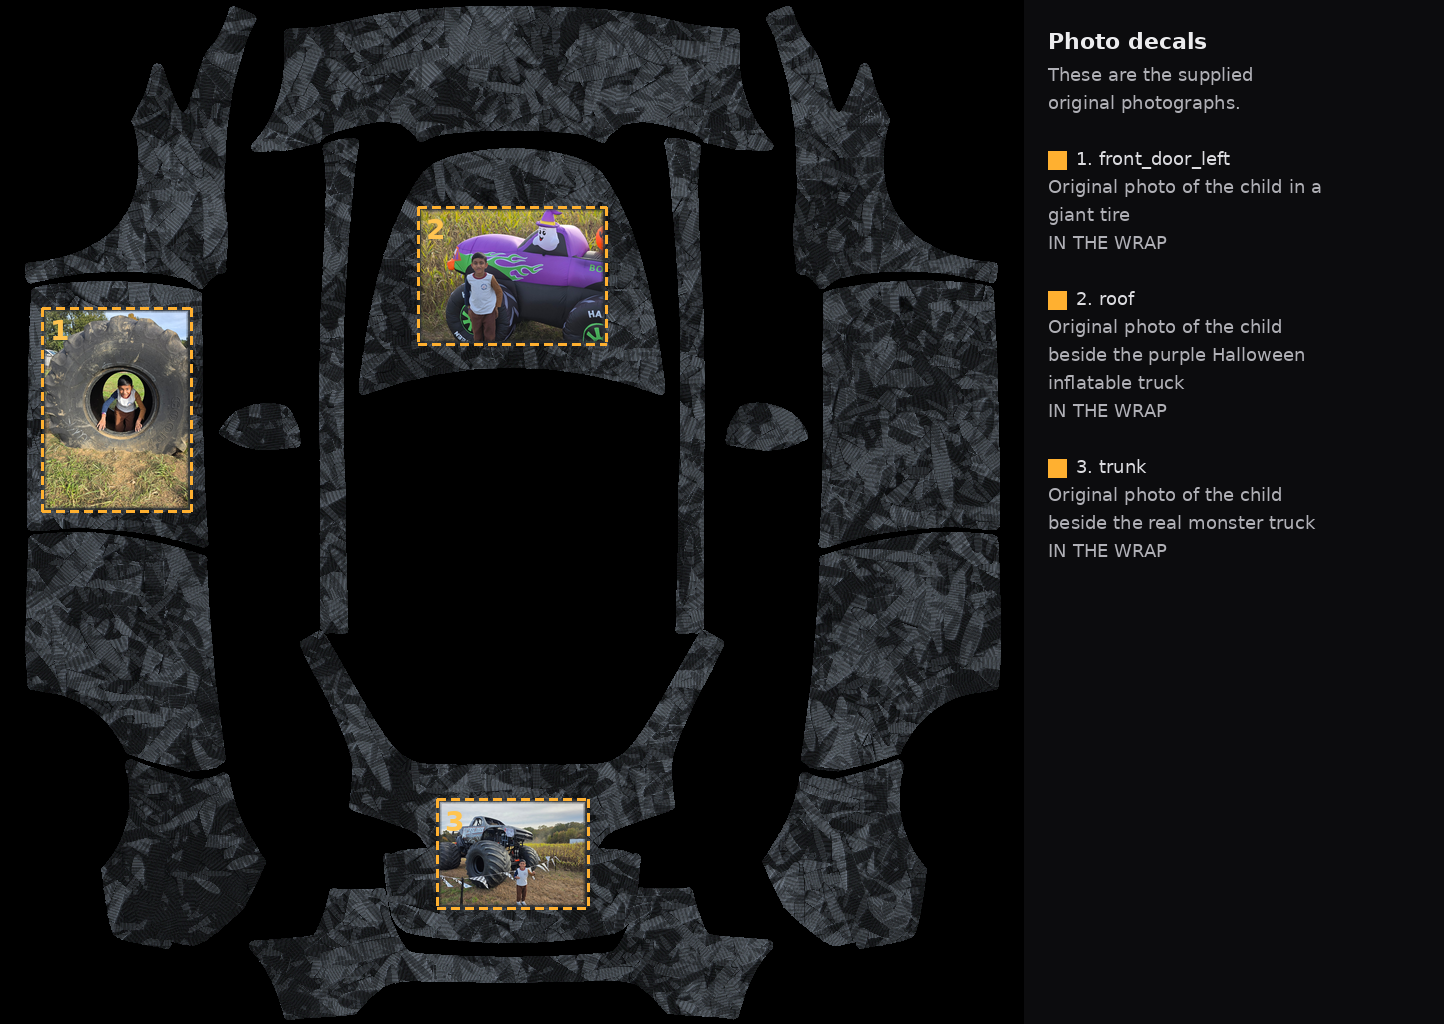
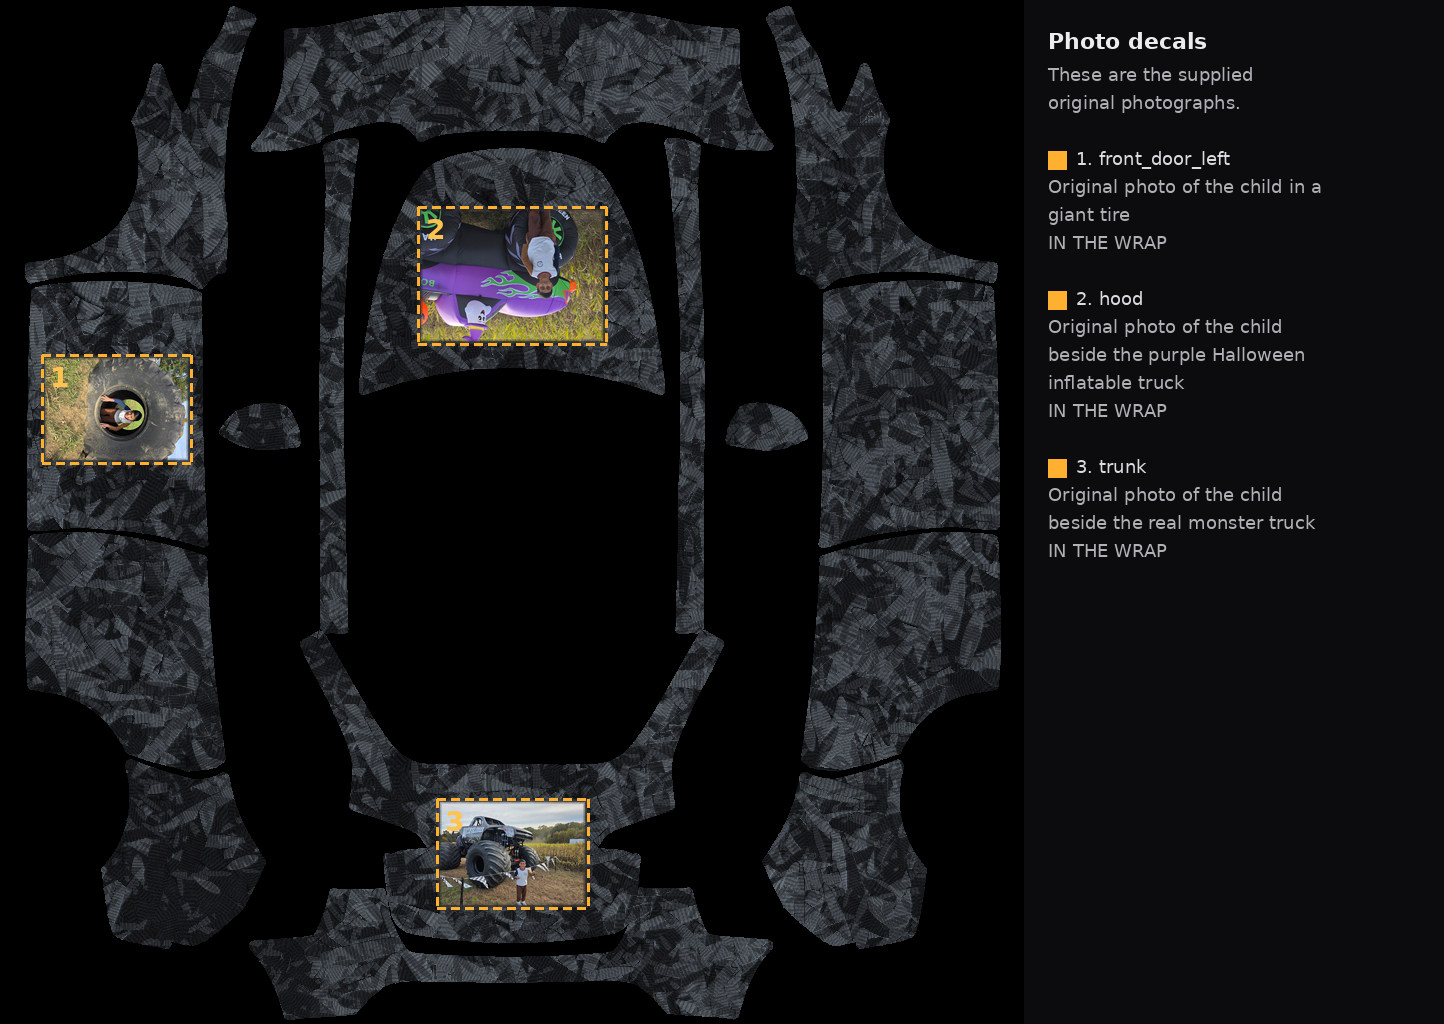
Turn the photo decals to match the Paint Shop UV
The left door needs a quarter turn so the head points toward the window, and the hood needs a half turn so the head points toward the windshield. The trunk photo stays upright.

Changed region(s): [[0.0312, 0.2812, 0.1558, 0.5], [0.2805, 0.1875, 0.4363, 0.3438], [0.7791, 0.2812, 0.8102, 0.3125]]

diff --git a/designs/modely-2024-forged-carbon/photos.py b/designs/modely-2024-forged-carbon/photos.py
@@ -30,18 +30,24 @@ PHOTO_SPECS = (
         "filename_stem": "child_giant_tire",
         "description": "Original photo of the child in a giant tire",
         "panel": "front_door_left",
-        "aspect_h_over_w": 1.33,
+        # After the quarter-turn, the portrait becomes a wide decal whose long side
+        # runs from the window toward the sill.
+        "aspect_h_over_w": 0.75,
         # Portrait photo, child centered in the tire.
         "focal": (0.50, 0.47),
+        # Side panels fold outward. Clockwise puts the head toward the template center,
+        # which is up on the door. Measured against the official TESLA door lettering.
+        "rotation_cw": 90,
     },
     {
         "id": "child_halloween_truck",
         "filename_stem": "child_halloween_truck",
         "description": "Original photo of the child beside the purple Halloween inflatable truck",
-        "panel": "roof",
+        "panel": "hood",
         "aspect_h_over_w": 0.75,
-        # Landscape photo. The roof island keeps the child and the inflatable in frame.
         "focal": (0.46, 0.58),
+        # The hood's image-up is the front bumper. Half a turn puts the head toward the windshield.
+        "rotation_cw": 180,
     },
     {
         "id": "child_monster_truck",
@@ -51,6 +57,8 @@ PHOTO_SPECS = (
         "aspect_h_over_w": 0.75,
         # Child stands low in the frame, so the crop favors the lower half.
         "focal": (0.58, 0.66),
+        # Image-up on the liftgate is the rear window, so the photo stays upright.
+        "rotation_cw": 0,
     },
 )
 
@@ -164,9 +172,36 @@ def build_slots(panel_masks: dict[str, np.ndarray], solid: np.ndarray) -> list[d
                 "aspect_h_over_w": spec["aspect_h_over_w"],
                 "rect": [int(x0), int(y0), int(x1), int(y1)],
                 "focal": [float(v) for v in spec["focal"]],
+                "rotation_cw": int(spec["rotation_cw"]),
             }
         )
     return slots
+
+
+def rotate_clockwise(image: Image.Image, degrees: int) -> Image.Image:
+    degrees = degrees % 360
+    if degrees == 0:
+        return image
+    if degrees == 90:
+        return image.transpose(Image.Transpose.ROTATE_270)
+    if degrees == 180:
+        return image.transpose(Image.Transpose.ROTATE_180)
+    if degrees == 270:
+        return image.transpose(Image.Transpose.ROTATE_90)
+    raise ValueError(f"rotation must be a quarter turn, got {degrees}")
+
+
+def rotate_focal(focal: tuple[float, float], degrees: int) -> tuple[float, float]:
+    """Map a focal point into the image produced by rotate_clockwise."""
+    x, y = float(focal[0]), float(focal[1])
+    degrees = degrees % 360
+    if degrees == 90:
+        return (1.0 - y, x)
+    if degrees == 180:
+        return (1.0 - x, 1.0 - y)
+    if degrees == 270:
+        return (y, 1.0 - x)
+    return (x, y)
 
 
 def cover_crop(image: Image.Image, width: int, height: int, focal: tuple[float, float] = (0.5, 0.5)) -> np.ndarray:
@@ -204,8 +239,10 @@ def composite_photos(
         x0, y0, x1, y1 = slot["rect"]
         width = x1 - x0
         height = y1 - y0
-        focal = slot.get("focal", (0.5, 0.5))
-        cropped = cover_crop(photo, width, height, (float(focal[0]), float(focal[1]))).astype(np.float32)
+        rotation = int(slot.get("rotation_cw", 0))
+        oriented = rotate_clockwise(photo, rotation)
+        focal = rotate_focal(tuple(slot.get("focal", (0.5, 0.5))), rotation)
+        cropped = cover_crop(oriented, width, height, focal).astype(np.float32)
         alpha = _slot_alpha(height, width)[..., None]
         base = painted[y0:y1, x0:x1].astype(np.float32)
         blended = cropped * alpha + base * (1.0 - alpha)

diff --git a/designs/modely-2024-forged-carbon/test_wrap.py b/designs/modely-2024-forged-carbon/test_wrap.py
@@ -181,8 +181,29 @@ class WrapTests(unittest.TestCase):
                 self.assertTrue(bool(changed[y0 + 12 : y1 - 12, x0 + 12 : x1 - 12].all()))
                 self.assertTrue(bool(self.panels[slot["panel"]][y0:y1, x0:x1].all()))
             self.assertFalse(bool(changed[~slot_union].any()))
-            # Hood stays carbon. The monster-truck slot is on the trunk, not the hood.
-            self.assertTrue(np.array_equal(painted[self.panels["hood"]], carbon[self.panels["hood"]]))
+            # The front bumper has no decal. The monster-truck slot is on the trunk.
+            self.assertTrue(
+                np.array_equal(painted[self.panels["front_bumper"]], carbon[self.panels["front_bumper"]])
+            )
+
+    def test_decals_follow_panel_orientation(self):
+        rgba, status, _coverage = build_wrap(enable_photos=True)
+        slots = {slot["id"]: slot for slot in status["slots"]}
+        tire = slots["child_giant_tire"]["rect"]
+        door = rgba[tire[1] : tire[3], tire[0] : tire[2], :3].astype(np.float32)
+        # Quarter-turn clockwise puts the sky on the center side and the grass on the outer side.
+        grass = door[:, :16, 0] - door[:, :16, 2]
+        sky = door[:, -16:, 0] - door[:, -16:, 2]
+        self.assertGreater(float(grass.mean()), float(sky.mean()) + 15)
+
+        hood = slots["child_halloween_truck"]["rect"]
+        hood_px = rgba[hood[1] : hood[3], hood[0] : hood[2], :3].astype(np.float32)
+        # Half-turn puts the bright field at the windshield edge, the bottom of this island.
+        self.assertGreater(float(hood_px[-14:].mean()), float(hood_px[:14].mean()) + 20)
+
+        trunk = slots["child_monster_truck"]["rect"]
+        trunk_px = rgba[trunk[1] : trunk[3], trunk[0] : trunk[2], :3].astype(np.float32)
+        self.assertGreater(float(trunk_px[:12].mean()), float(trunk_px[-12:].mean()))
 
     def test_compositor_refuses_to_invent_a_partial_result(self):
         slots = [

diff --git a/designs/modely-2024-forged-carbon/panels.py b/designs/modely-2024-forged-carbon/panels.py
@@ -17,8 +17,8 @@ REPO_ROOT = Path(__file__).resolve().parents[2]
 TEMPLATE_PATH = REPO_ROOT / "modely" / "template.png"
 
 PANEL_COLORS = {
-    "hood": (70, 170, 220),
-    "roof": (150, 80, 210),
+    "front_bumper": (70, 170, 220),
+    "hood": (150, 80, 210),
     "trunk": (240, 180, 50),
     "front_door_left": (70, 110, 230),
     "front_door_right": (230, 120, 170),
@@ -34,8 +34,8 @@ PANEL_COLORS = {
 }
 
 REQUIRED_COVERAGE = (
+    "front_bumper",
     "hood",
-    "roof",
     "trunk",
     "front_door_left",
     "front_door_right",
@@ -100,9 +100,11 @@ def _component_name(area: int, cx: float, cy: float) -> str:
             return "rear_door_right"
         return "rear_quarter_right"
     if cy < 160 and 360 < cx < 660:
-        return "hood"
+        # Short band across the nose. The large arch below it is the hood.
+        return "front_bumper"
     if 180 < cy < 420 and area > 40000:
-        return "roof"
+        # Hood. Its curved lower edge is the windshield, so image-down is up on the car.
+        return "hood"
     if area > 80000:
         return "lower_body"
     raise RuntimeError(f"unclassified island area={area} centroid=({cx:.1f},{cy:.1f})")

diff --git a/designs/modely-2024-forged-carbon/generate_wrap.py b/designs/modely-2024-forged-carbon/generate_wrap.py
@@ -111,7 +111,7 @@ def coverage_report(
         "notes": [
             "Paint Shop visualization UV at the template resolution (1024x1024), not a measured vinyl cut file.",
             "The repository does not publish verified body-panel dimensions in millimeters.",
-            "Hood, roof, trunk, doors, and the other islands sample one periodic carbon field.",
+            "Front bumper, hood, trunk, doors, and the other islands sample one periodic carbon field.",
         ],
     }
 
@@ -206,7 +206,7 @@ def write_previews(
 
     crops = []
     labels = []
-    for name in ("hood", "roof", "front_door_left", "trunk"):
+    for name in ("front_bumper", "hood", "front_door_left", "trunk"):
         ys, xs = np.where(panels[name])
         cx, cy = int(xs.mean()), int(ys.mean())
         half = 110

diff --git a/designs/modely-2024-forged-carbon/README.md b/designs/modely-2024-forged-carbon/README.md
@@ -24,11 +24,11 @@ Paint Shop limits followed here: PNG, 1024×1024, at most 1 MB, filename `Forged
 
 | Original | Placement | Why this island |
 | --- | --- | --- |
-| `photos/originals/child_giant_tire.jpg` | Front door, image left | Portrait photo, child centered in the tire |
-| `photos/originals/child_halloween_truck.jpg` | Roof | Landscape photo; this island keeps the child and the purple inflatable together |
-| `photos/originals/child_monster_truck.jpg` | Trunk | Landscape photo; the child stays in the lower part of the frame |
+| `photos/originals/child_giant_tire.jpg` | Front door, image left, quarter-turned so the head points at the center of the template | That edge is the top of the door on the car |
+| `photos/originals/child_halloween_truck.jpg` | Hood, turned halfway around | Image-up on the hood is the front bumper, so the head points toward the windshield |
+| `photos/originals/child_monster_truck.jpg` | Trunk, upright in the file | Image-up on the liftgate is the rear window |
 
-Each decal is inset inside its panel, cover-cropped around that subject, and edged with a dark gunmetal frame so the carbon remains the ground. The Paint Shop UV is 1024×1024, so the decals are small on the template. `previews/photo_details.png` shows those slots enlarged. `photos/STATUS.json` records each file's sha256.
+The flat file will show the door photo on its side and the hood photo upside down. That is the orientation the Paint Shop UV uses. On the car, the head is toward the window on the door and toward the windshield on the hood. Each decal is inset inside its panel and edged with a dark gunmetal frame. `previews/photo_details.png` shows the slots enlarged. `photos/STATUS.json` records each file's sha256.
 
 `--carbon-only` rebuilds the wrap without the decals. If an original is missing or fails validation, the generator does not fill the gap with a drawn person; it leaves the carbon in place and exits 2.
 
